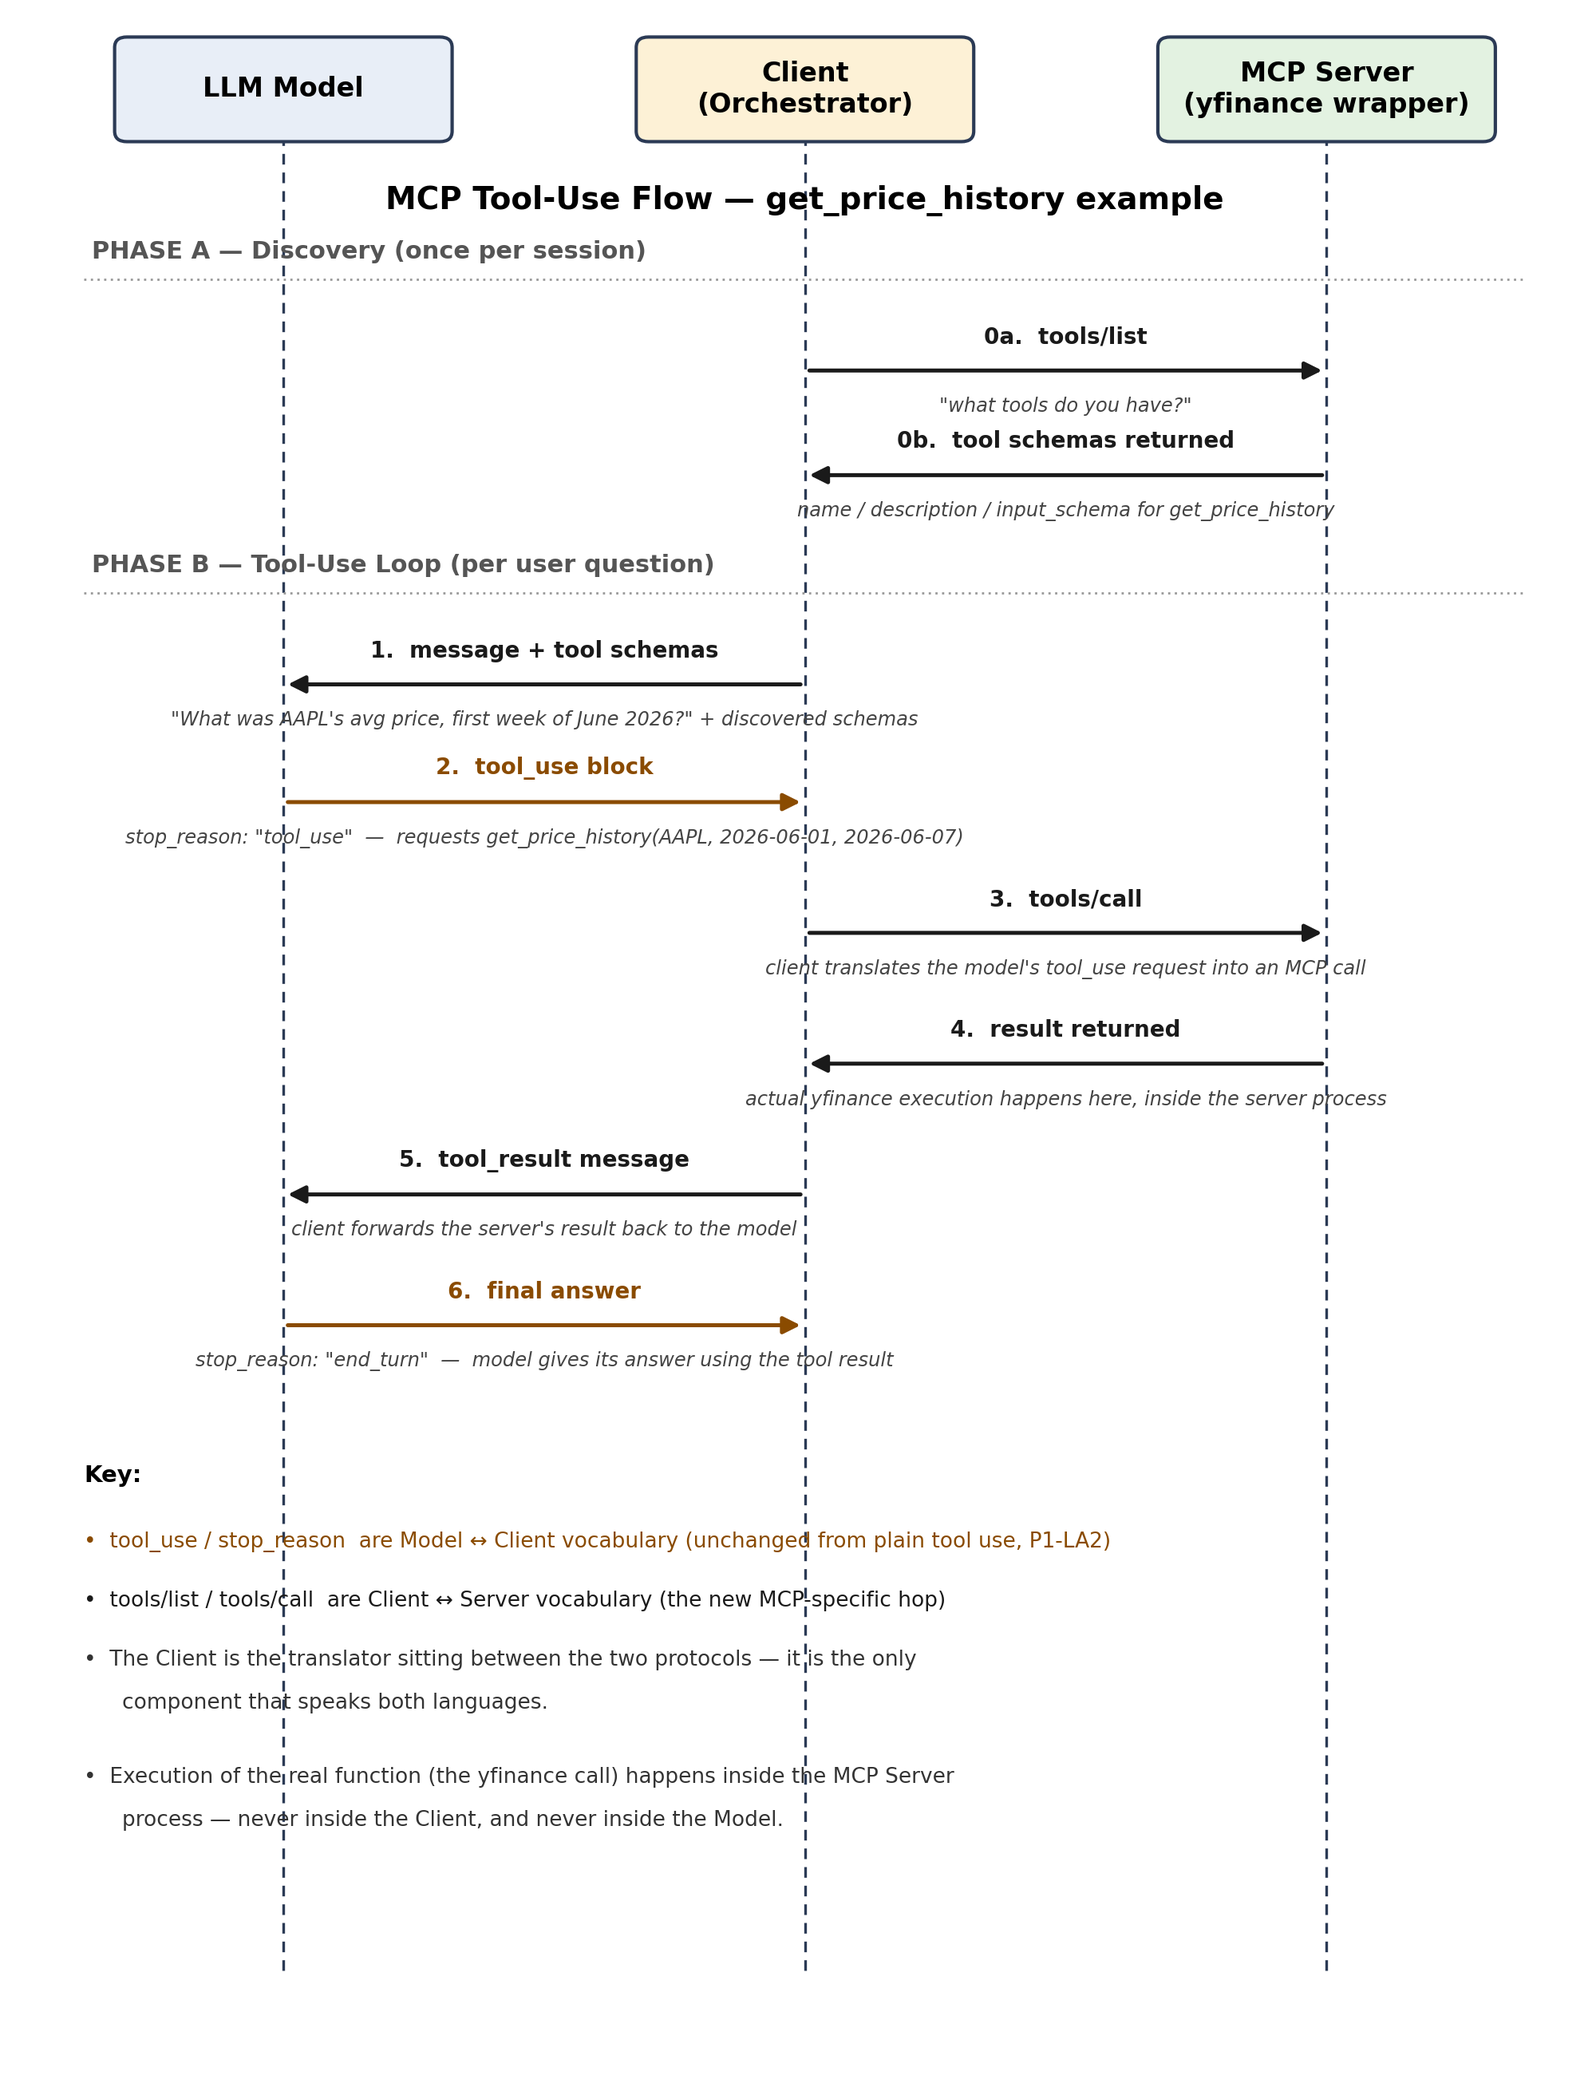
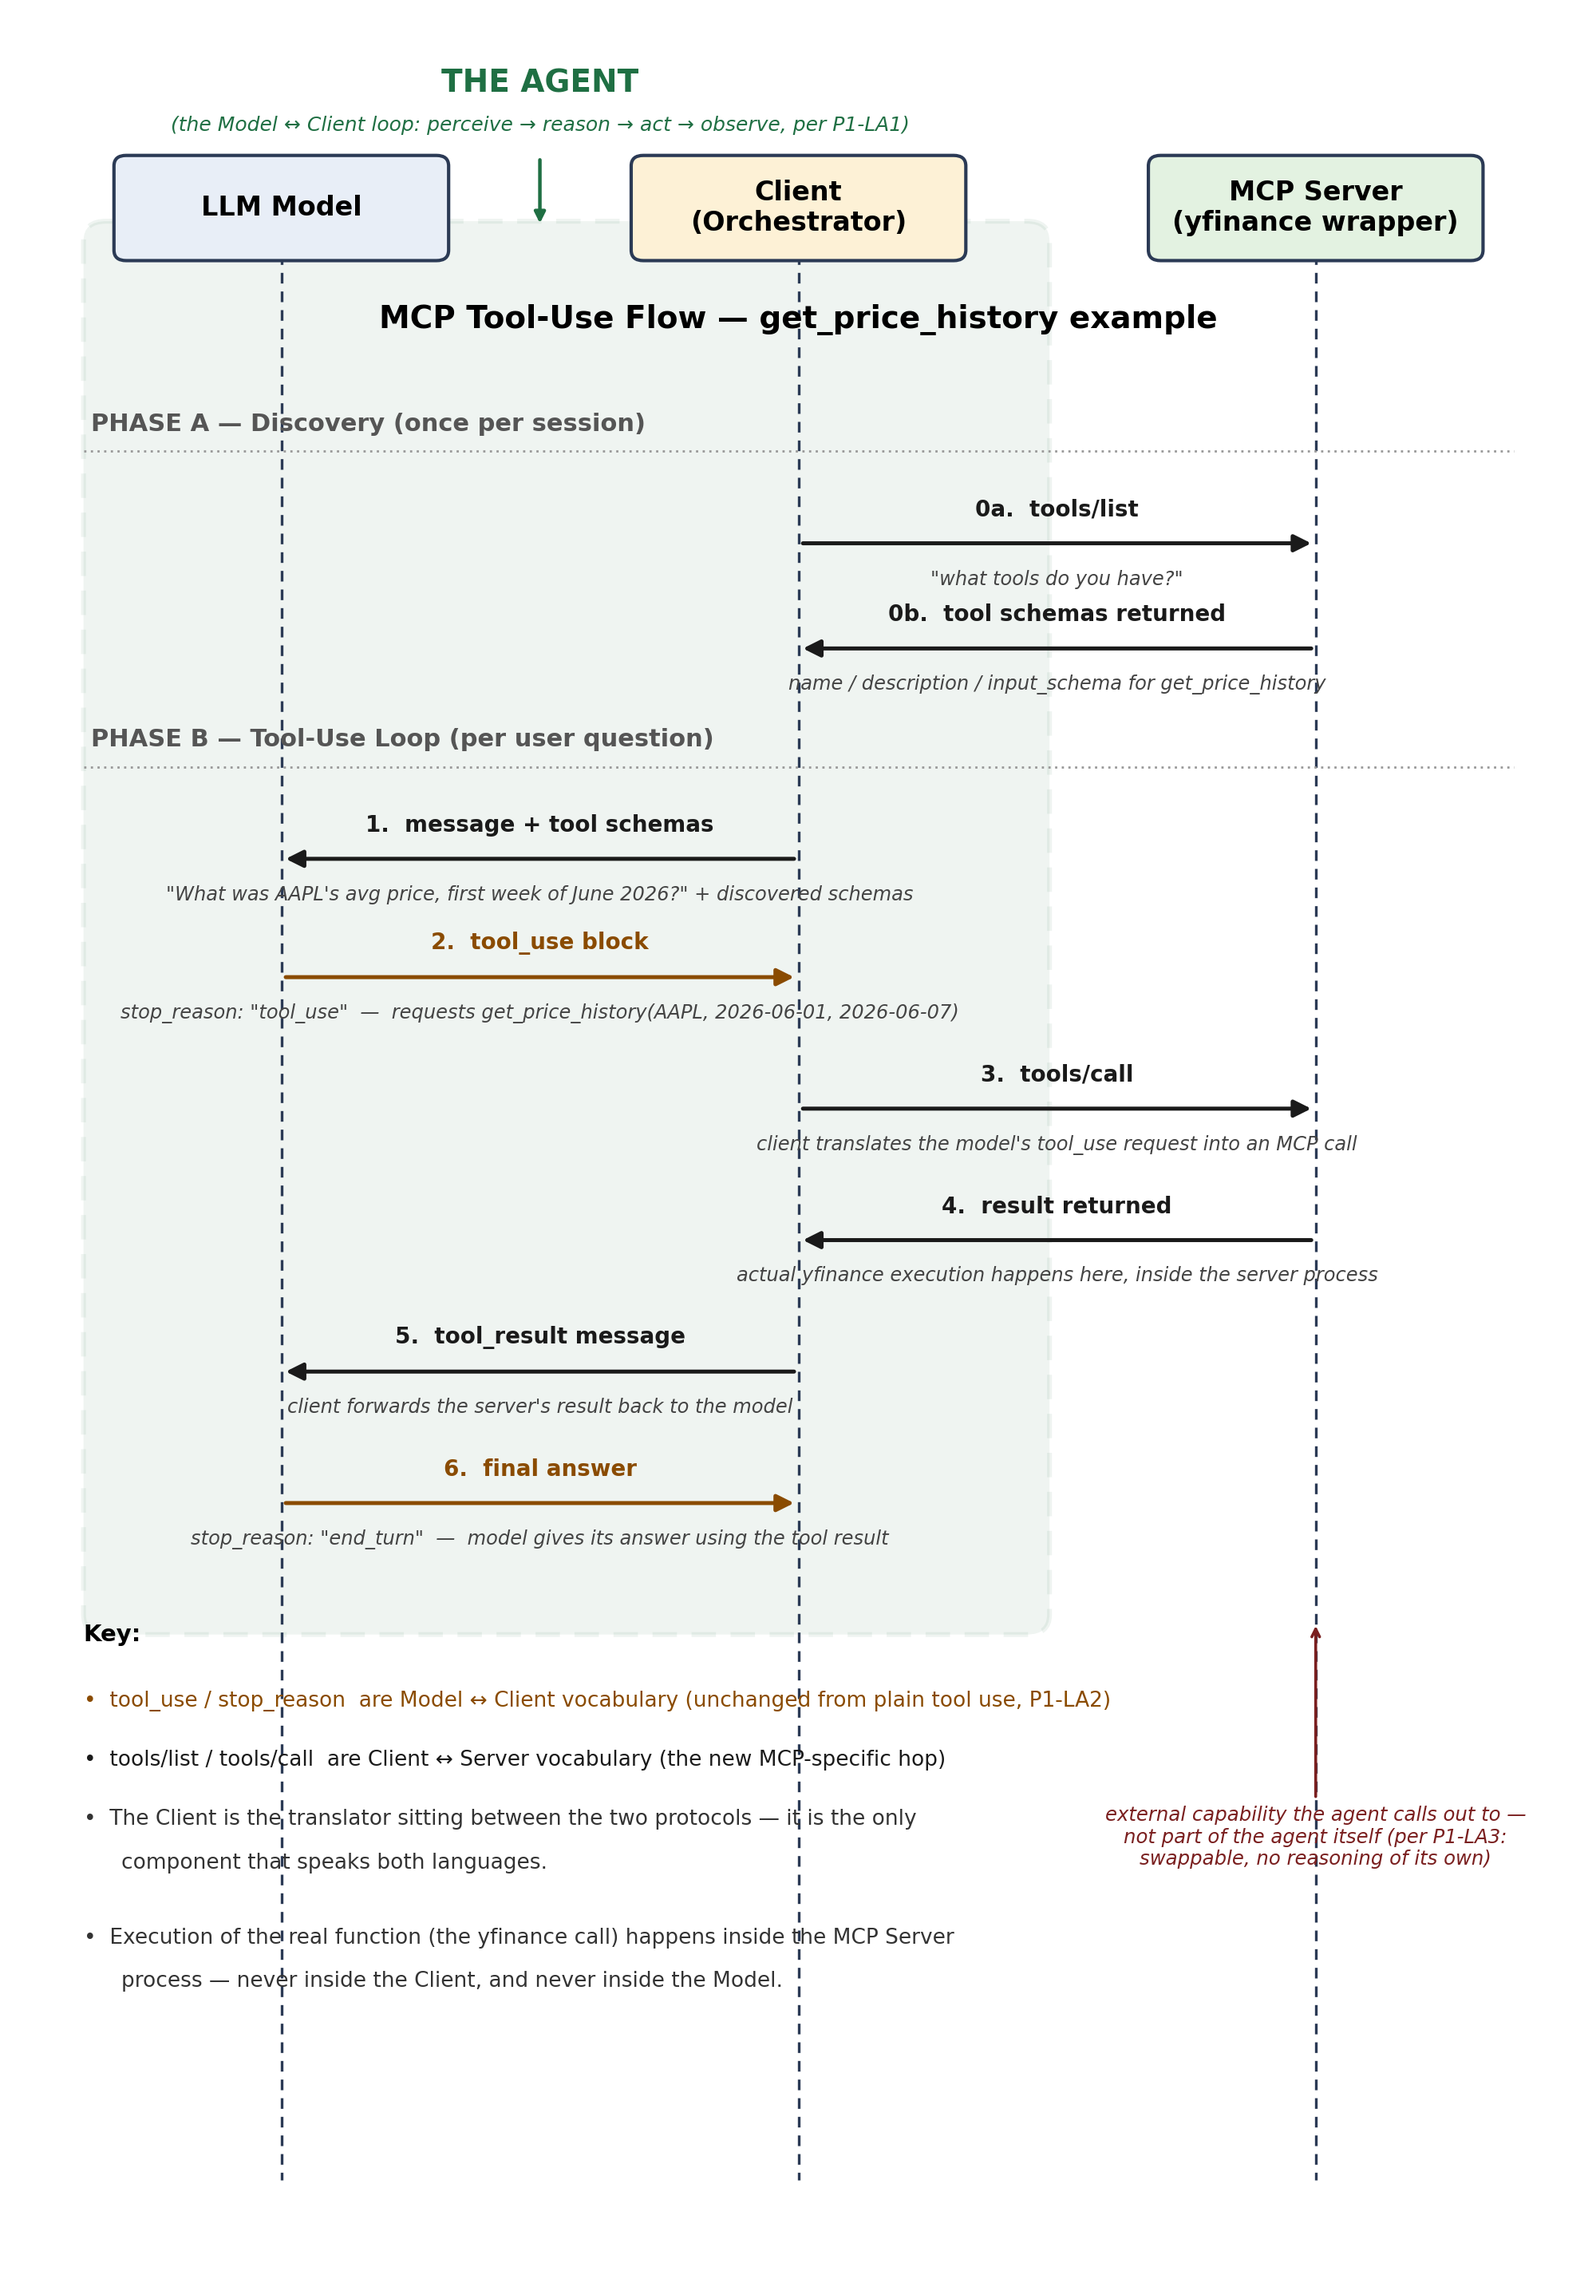
updated files after AI/Agentic lesson 3 (MCP)

diff --git a/misc/notes/P1_AI_Agentic/P1_LA3_MCP_Model_Context_Protocol.md b/misc/notes/P1_AI_Agentic/P1_LA3_MCP_Model_Context_Protocol.md
@@ -144,6 +144,22 @@ The clean way to see this: `tool_use` and `stop_reason` are **Model ↔ Client**
 
 *Figure: the full MCP flow for `get_price_history`, split into Phase A (Discovery — happens once per session) and Phase B (the Tool-Use Loop — happens per user question). Note that `tool_use`/`stop_reason` only ever appear on the Model↔Client lifeline, while `tools/list`/`tools/call` only ever appear on the Client↔Server lifeline.*
 
+### Follow-up synthesis: where is "the agent" in this diagram? (bringing together P1-LA1, P1-LA2, P1-LA3)
+
+A natural question once all three lessons are on the table: which box in the diagram *is* the agent?
+
+**Answer: the agent is the Model↔Client loop — not any single box, and not the MCP Server.**
+
+- **From P1-LA1:** an agent is defined by *who decides what happens next* — the perceive → reason → act → observe → repeat-or-stop loop, driven by the LLM's own judgment rather than a human-scripted sequence. That loop needs two parts to actually run: something that *reasons* (the Model) and something that *executes and feeds results back* (the Client). Neither one alone is "the agent" — the Model can't act on the world by itself (it only ever outputs text, per P1-LA2), and the Client can't decide anything (it only mechanically follows whatever the Model requests). The agent is the loop *between* them.
+- **From P1-LA2:** the mechanism that actually drives that loop is `stop_reason`. As long as the Model keeps returning `stop_reason: "tool_use"`, the Client keeps looping — perceiving the new tool result, handing it back to the Model, letting it reason again. The moment `stop_reason: "end_turn"` appears, the loop stops. That repeat-or-stop decision is made by the Model, which is exactly P1-LA1's defining test for "agentic" vs. "fixed workflow."
+- **From P1-LA3:** the MCP Server sits deliberately *outside* the agent boundary. It's a capability the agent's *act* step reaches out to — analogous to a tool sitting on a shelf, not part of the person deciding whether to pick it up. This is precisely why it's swappable (yfinance today, Polygon in Project 2) without touching the agent's reasoning at all: the agent doesn't contain the server, it just knows how to call it.
+
+Concretely, in the diagram: **Model + Client together = the agent**, specifically the recurring steps 1→2 and 5→6 (the perceive-reason-act-observe cycle), sitting at the "single tool-use loop" rung of P1-LA1's autonomy spectrum (fixed workflow → single tool-use loop → ReAct loop → planning loop → multi-agent orchestration). **The MCP Server is external environment/tooling**, called by the agent but not part of it.
+
+![Same MCP flow diagram, now with a dashed green boundary around the Model and Client lanes labeled THE AGENT, and a callout noting the MCP Server sits outside that boundary as an external capability](mcp_tool_use_flow_agent_boundary.png)
+
+*Figure: the agent boundary overlaid on the same flow. The Model↔Client loop (green dashed box) is the agent; the MCP Server is an external capability the agent's act step calls out to, not part of the agent itself.*
+
 
 
 ## 5. Transport: how the client and server actually talk

diff --git a/CONTEXT.md b/CONTEXT.md
@@ -292,6 +292,7 @@ Purpose: recalibrate the ~150-210 hour / 30-40 week estimate against real pace.
 - **Security preview (full depth deferred to P1-LA10):** an MCP server runs with whatever permissions the process it's spawned in has — for a local stdio server, that's the user's own account permissions. The general principle, previewed here and covered fully in P1-LA10, is **least-privilege scoping**: a server should only be able to do the narrow thing it's meant for (e.g., the P1-Build-1 server needs read access to price/universe data and write access only to its own cache directory — nothing more).
 - **No new locked design decisions this lesson** — protocol/architecture-mechanics lesson. Confirms, rather than newly decides, the 2026-07-11 decision that MCP is in scope from Project 1; directly informs the *implementation approach* for P1-Build-1 (server side) and P1-Build-7 (orchestrator as client side).
 - **Follow-up clarification (2026-07-14, same session):** confirmed `stop_reason` and `tool_use` remain Model↔Client vocabulary, unchanged from P1-LA2 — MCP only adds the Client↔Server hop (`tools/list`/`tools/call`) *after* the model has already signaled `stop_reason: "tool_use"`. The Client is the single component that translates between the two protocols. A labeled flow diagram (`mcp_tool_use_flow.png`) showing both phases (Discovery, then the Tool-Use Loop) and which vocabulary belongs to which lifeline was added to the P1_LA3 notes file.
+- **Follow-up synthesis (2026-07-14, same session): "where is the agent" in the MCP flow diagram, bringing together P1-LA1/LA2/LA3.** Locked understanding: the agent is the Model↔Client loop (perceive-reason-act-observe, per P1-LA1), driven by `stop_reason` (per P1-LA2) — neither the Model alone (can't act on the world) nor the Client alone (makes no decisions) is "the agent" on its own. The MCP Server sits outside the agent boundary entirely — it's an external capability the agent's act step calls out to, swappable without touching the agent's reasoning (per P1-LA3). A second annotated diagram (`mcp_tool_use_flow_agent_boundary.png`) with the agent boundary overlaid was added to the P1_LA3 notes file.
 
 See curriculum.md Phase 1 (AI/Agentic Track) for the full remaining scope (14 lessons left): structured outputs & schema validation (LA4, next), ReAct-style loops, planning loops, subagent orchestration, context engineering, agent failure modes — reliability (LA9), agent security & adversarial failure modes (LA10, new), AI governance and human-in-the-loop design (LA11, new), observability/tracing, latency/cost tradeoffs, deployment basics, RAG fundamentals, fine-tuning vs. prompting vs. RAG (LA16, new), prompt engineering fundamentals.
 
